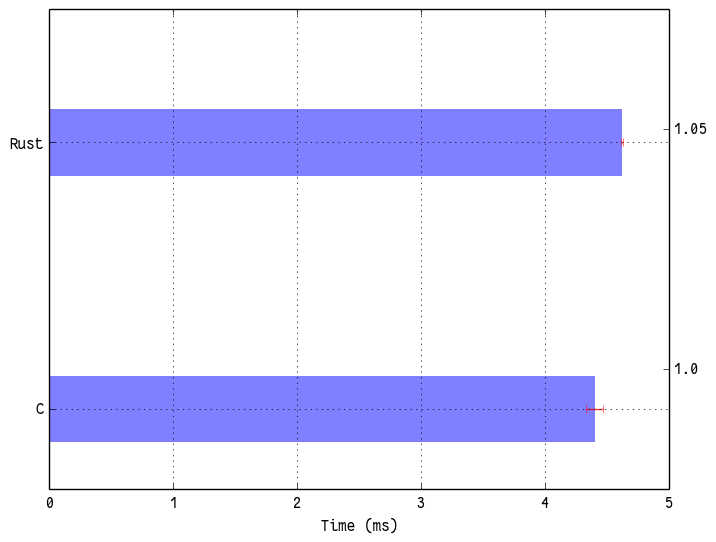
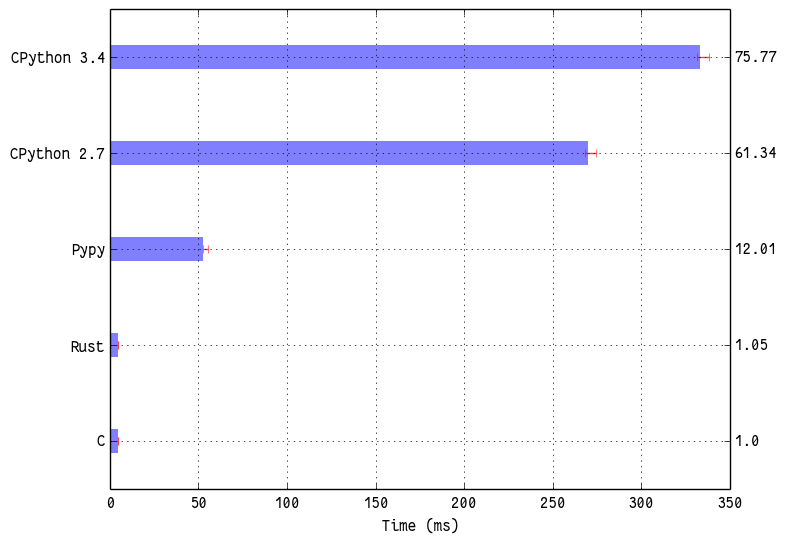
010: Solve in Python, simplify some ops in C and Rust

diff --git a/problems/010/010.py b/problems/010/010.py
@@ -1,0 +1,52 @@
+LIMIT = 2000000
+SIZE = (LIMIT - 1) // 2
+
+
+def f():
+    ans = 2
+    sieve = [False] * SIZE
+
+    for i in range(0, SIZE):
+        if not sieve[i]:
+            p = 2 * i + 3
+
+            ans += p
+
+            for j in range(p * p, LIMIT, 2 * p):
+                sieve[(j - 3) // 2] = True
+
+    return ans
+
+import ctypes
+import sys
+
+CLOCK_MONOTONIC = 1
+
+
+class timespec(ctypes.Structure):
+    _fields_ = [
+        ('tv_sec', ctypes.c_long),
+        ('tv_nsec', ctypes.c_long)
+    ]
+
+librt = ctypes.CDLL('librt.so.1')
+clock_gettime = librt.clock_gettime
+clock_gettime.argtypes = [ctypes.c_int, ctypes.POINTER(timespec)]
+
+
+def to_ns(ts):
+    return ts.tv_sec * int(1e9) + ts.tv_nsec
+
+
+if len(sys.argv) == 1:
+    print(f())
+elif len(sys.argv) == 2:
+    start, end = timespec(), timespec()
+    iters = int(sys.argv[1])
+
+    clock_gettime(CLOCK_MONOTONIC, ctypes.pointer(start))
+    for _ in range(0, iters):
+        f()
+    clock_gettime(CLOCK_MONOTONIC, ctypes.pointer(end))
+
+    print(to_ns(end) - to_ns(start))

diff --git a/problems/010/010.rs b/problems/010/010.rs
@@ -7,7 +7,7 @@ use test::black_box;
 use time::precise_time_ns;
 
 static LIMIT: u64 = 2000000;
-static SIZE: u64 = (LIMIT - 3) / 2 + 1;
+static SIZE: u64 = (LIMIT - 1) / 2;
 
 #[inline]
 fn f() -> u64 {

diff --git a/problems/010/010.c b/problems/010/010.c
@@ -5,7 +5,7 @@
 #include <time.h>
 
 #define LIMIT 2000000
-#define SIZE ((LIMIT - 3) / 2 + 1)
+#define SIZE (LIMIT - 1) / 2
 
 __attribute__((always_inline))
 inline uint64_t f() {
